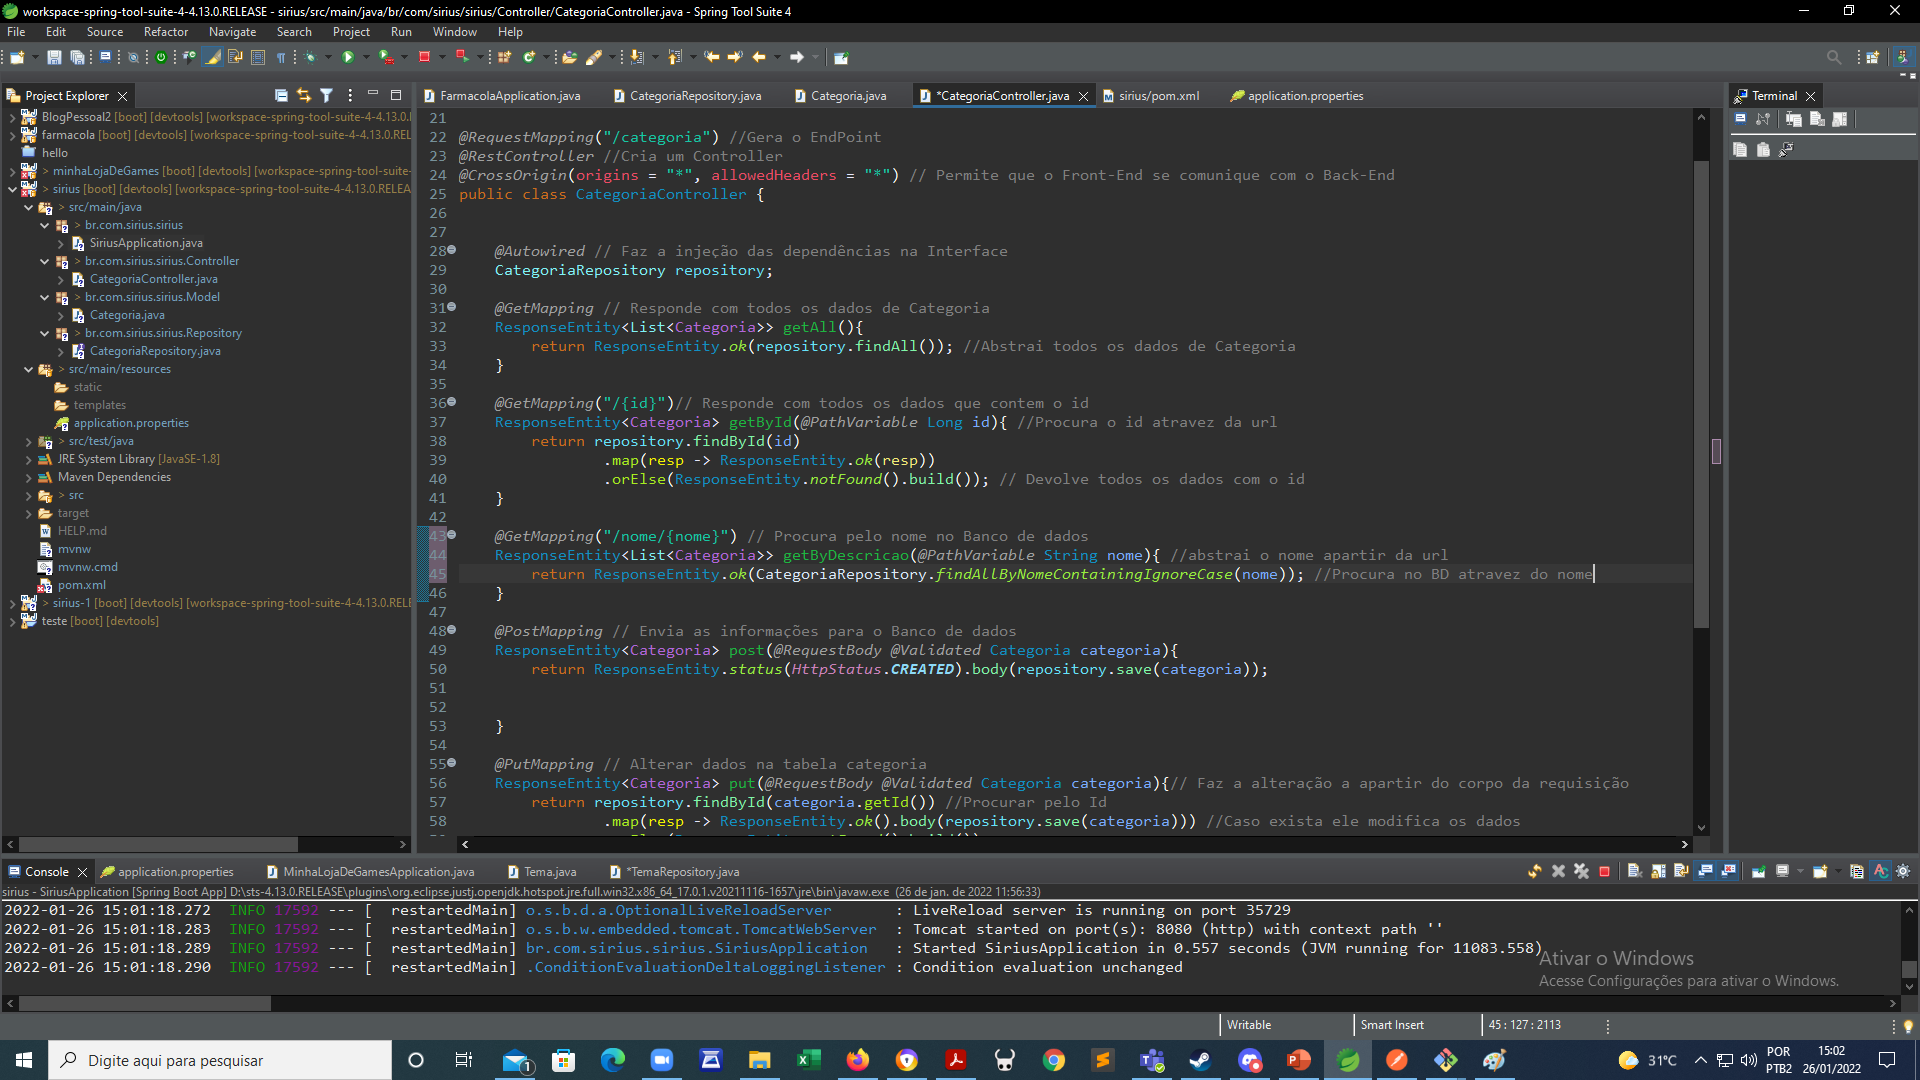
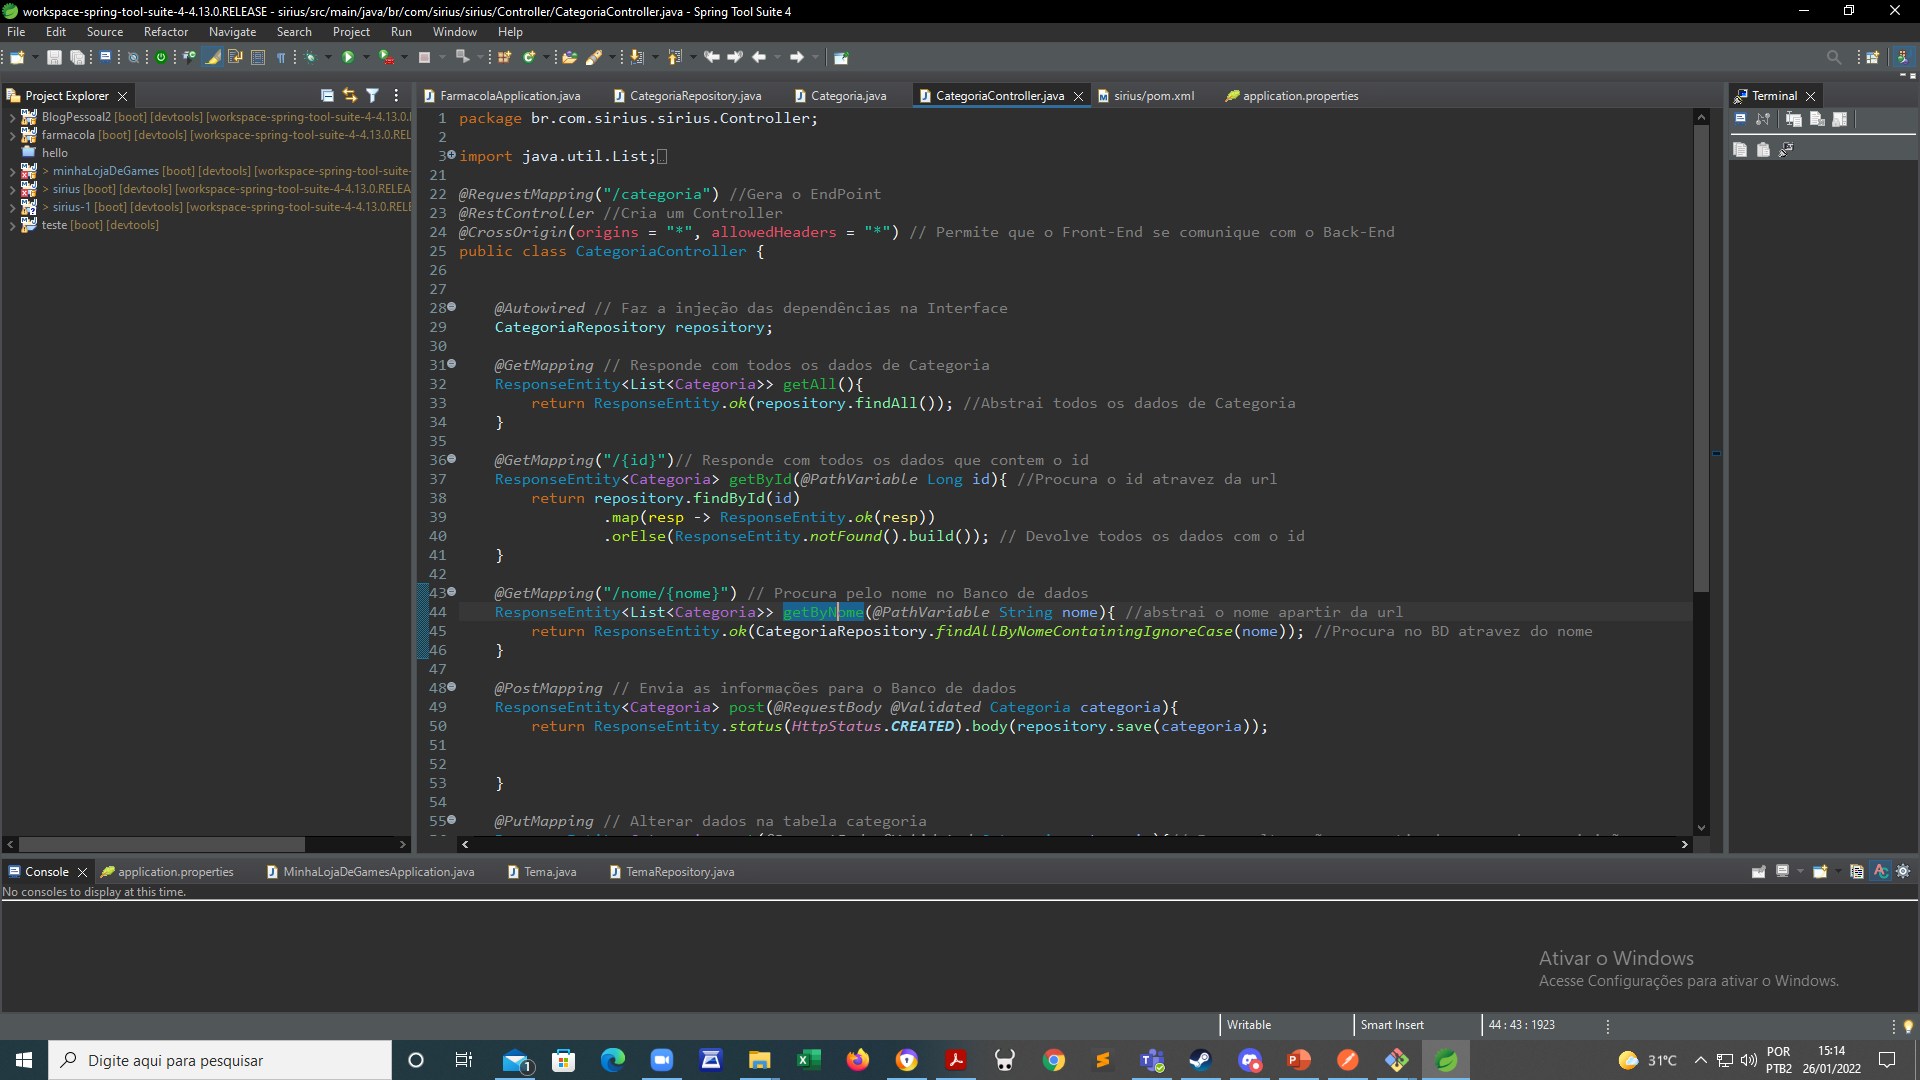
Alterando CategoriaController e adicionando prints

diff --git a/Sirius/src/main/java/br/com/sirius/sirius/Controller/CategoriaController.java b/Sirius/src/main/java/br/com/sirius/sirius/Controller/CategoriaController.java
@@ -19,8 +19,8 @@ import org.springframework.web.bind.annotation.RestController;
 import br.com.sirius.sirius.Model.Categoria;
 import br.com.sirius.sirius.Repository.CategoriaRepository;
 
-@RequestMapping("/categoria")//Gera o EndPoint 
-@RestController//Cria um Controller
+@RequestMapping("/categoria") //Gera o EndPoint 
+@RestController //Cria um Controller
 @CrossOrigin(origins = "*", allowedHeaders = "*") // Permite que o Front-End se comunique com o Back-End
 public class CategoriaController {
 	
@@ -29,32 +29,31 @@ public class CategoriaController {
 	CategoriaRepository repository;
 	
 	@GetMapping // Responde com todos os dados de Categoria
-	ResponseEntity <List<Categoria>> getAll(){ 
+	ResponseEntity<List<Categoria>> getAll(){ 
 		return ResponseEntity.ok(repository.findAll()); //Abstrai todos os dados de Categoria
 	}
 	
 	@GetMapping("/{id}")// Responde com todos os dados que contem o id
-	ResponseEntity <Categoria> getById(@PathVariable Long id){ //Procura o id atravez da url
+	ResponseEntity<Categoria> getById(@PathVariable Long id){ //Procura o id atravez da url
 		return repository.findById(id)
 				.map(resp -> ResponseEntity.ok(resp))
 				.orElse(ResponseEntity.notFound().build()); // Devolve todos os dados com o id
 	}
 	
-	@GetMapping("/descricao/{descricao}") // Procura pela descrição no Banco de dados
-	ResponseEntity <List<Categoria>> getByDescricao(@PathVariable String descricao){ //abstrai a descricao apartir da url
-		return ResponseEntity.ok(CategoriaRepository.findAllByDescricaoContainingIgnoreCase(descricao)); //Procura no BD atravez da descricao
+	@GetMapping("/nome/{nome}") // Procura pelo nome no Banco de dados
+	ResponseEntity<List<Categoria>> getByNome(@PathVariable String nome){ //abstrai o nome apartir da url
+		return ResponseEntity.ok(CategoriaRepository.findAllByNomeContainingIgnoreCase(nome)); //Procura no BD atravez do nome
 	}
 	
-	
 	@PostMapping // Envia as informações para o Banco de dados
-	ResponseEntity <Categoria> post (@RequestBody @Validated Categoria categoria){
+	ResponseEntity<Categoria> post(@RequestBody @Validated Categoria categoria){
 		return ResponseEntity.status(HttpStatus.CREATED).body(repository.save(categoria));
 		
 		
 	}
 	
 	@PutMapping // Alterar dados na tabela categoria
-	ResponseEntity <Categoria> put (@RequestBody @Validated Categoria categoria){// Faz a alteração a apartir do corpo da requisição
+	ResponseEntity<Categoria> put(@RequestBody @Validated Categoria categoria){// Faz a alteração a apartir do corpo da requisição
 		return repository.findById(categoria.getId()) //Procurar pelo Id
 				.map(resp -> ResponseEntity.ok().body(repository.save(categoria))) //Caso exista ele modifica os dados
 				.orElse(ResponseEntity.notFound().build());
